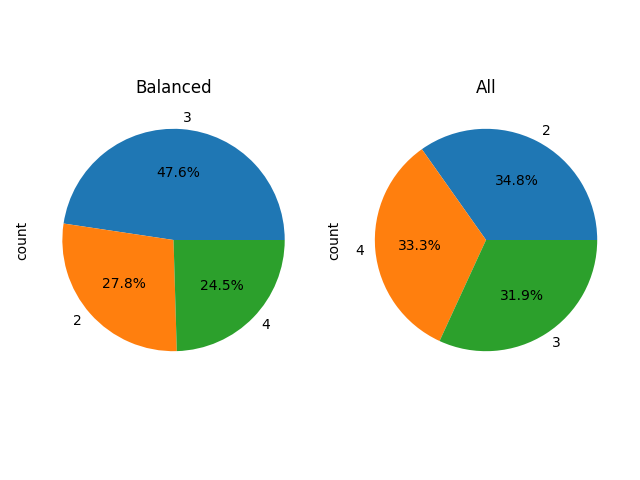
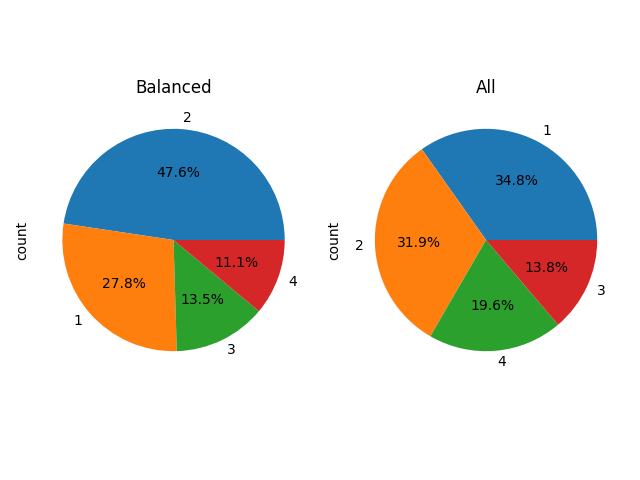
update the no compositional steps definition

diff --git a/ReadMe.md b/ReadMe.md
@@ -47,9 +47,10 @@ Following the order of the figures in the supplemental:
     * e.g. `no` as the only answer for questions of answer type "man", making balancing impossible
         * check with `for file in {*_questions.json,train_all_questions/*questions_*.json}; do echo "File:$file"; jq -c 'map(select(.groups.local? == "03-man") | .answer) | unique' "$file"; echo; done` -> in `testdev_all_questions.json`, `val_{all, balanced}_questions.json`, `train_all_questions_{0-9}.json`
 5. pie chart of the question semantic steps (fig. 13, supplemental and partly fig. 6 main paper)
-    * how is the semantic length is derived (defined as number of computation steps to arrive at the answer). It does not look like the length of the `semantic` field
-    * e.g. there are no questions with 1 reasoning step
-        * check heuristically with `jq '[.[] | select(.semantic | length == 1)] | length' train_balanced_questions.json`
+    * how is the semantic length is derived (defined as number of computation steps to arrive at the answer). It does not look like the length of the `semantic` field minus 1
+    * the ratios are super different e.g. for 1 compositional step:
+        * check heuristically with `jq '[.[] | select(.semantic | length == 2)] | length' train_balanced_questions.json` -> $263419$, ratio: $27.9%$
+        * with the total being `jq 'length' train_balanced_questions.json`
 6. table comparing `VQA 2.0` and `GQA` (tab. 3, supplemental): quantitatively different, but `VQA 2.0` only has a sum of the probabilites of $50 \%$
     * e.g. the question length are different
         * check heuristically with `jq '[.[] | .question | split(" ") | length] | add / length' train_balanced_questions.json` -> $8.76$
